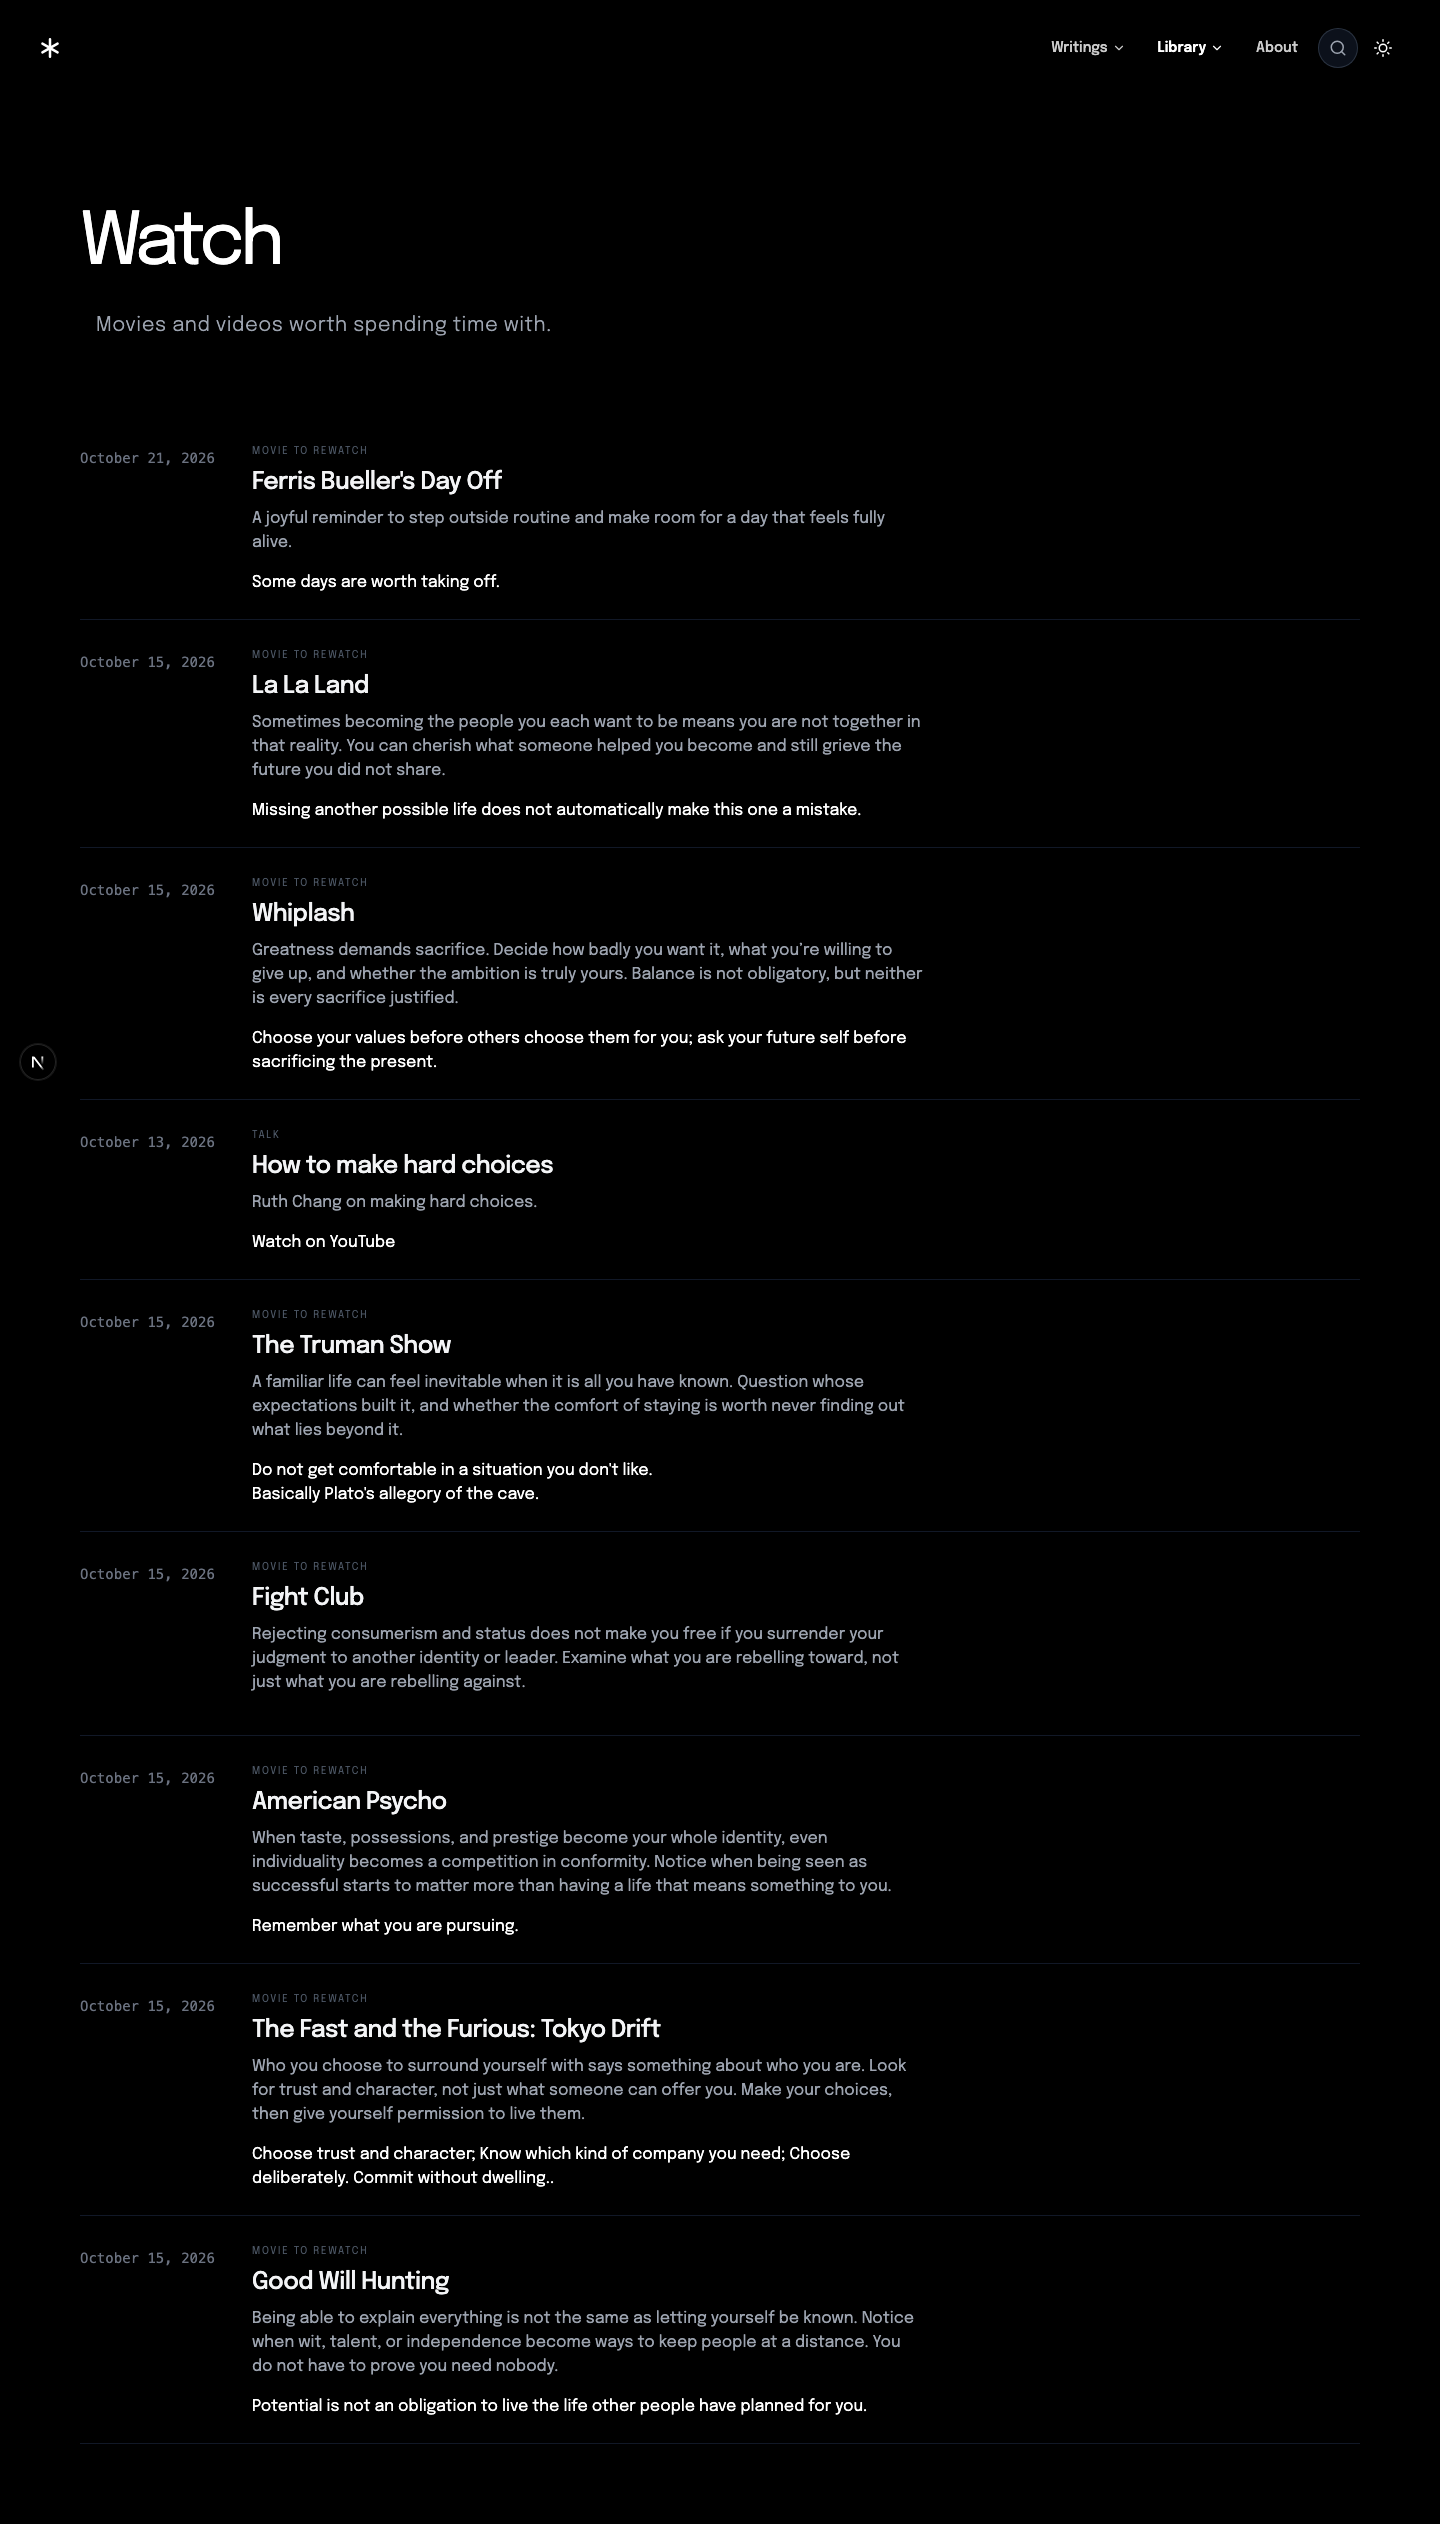
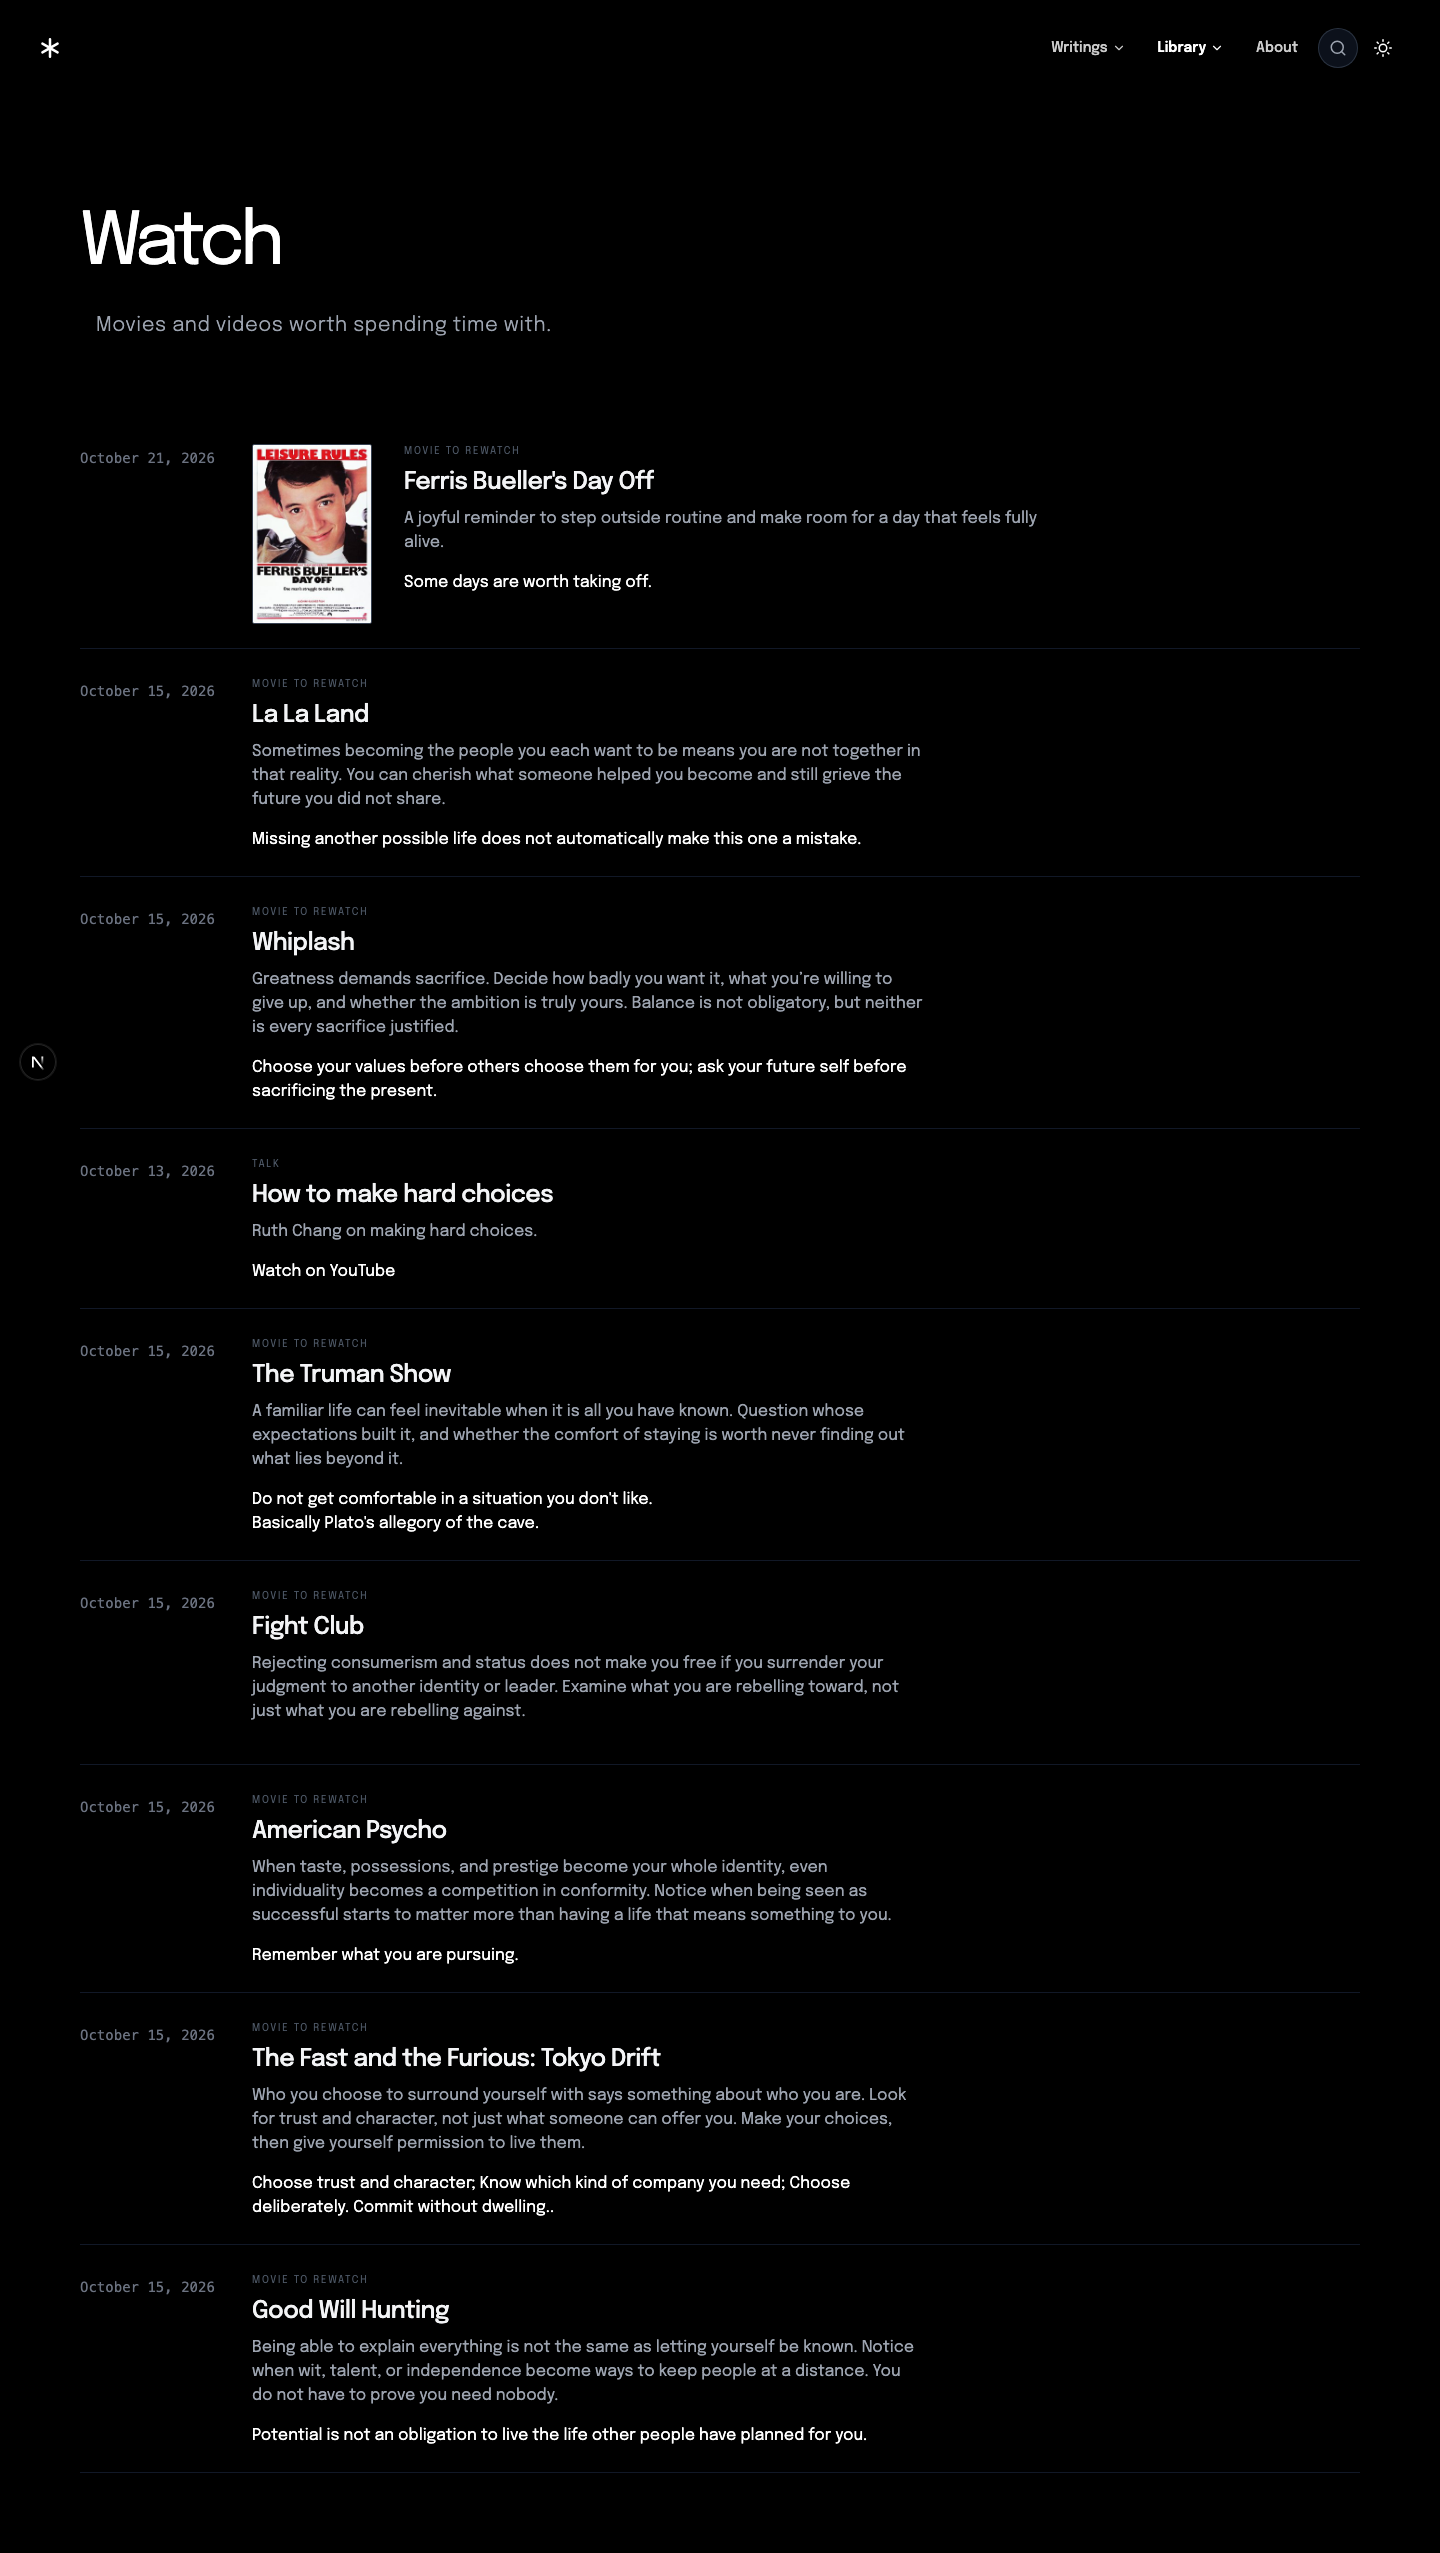
feat: add poster support to watch entries

diff --git a/src/app/watch/page.tsx b/src/app/watch/page.tsx
@@ -23,6 +23,7 @@ export default async function WatchPage() {
     date: string;
     excerpt: string;
     format?: string;
+    posterUrl?: string;
   }>).map(async (record) => ({
     ...record,
     body: await readStaticMarkdown('watch', record.id),
@@ -48,18 +49,27 @@ export default async function WatchPage() {
                       <div className="min-w-[140px] pt-1 text-sm font-mono text-gray-500 dark:text-gray-500">
                         <time dateTime={record.date}>{formatDate(record.date)}</time>
                       </div>
-                      <div className="min-w-0 flex-1">
-                        <p className="mb-2 text-[10px] uppercase tracking-[0.18em] text-gray-400 dark:text-gray-600">
-                          {record.format || 'Video'}
-                        </p>
-                        <h2 className="mb-2 text-xl font-medium tracking-tight text-gray-900 transition-colors group-hover:text-gray-600 dark:text-gray-100 dark:group-hover:text-gray-300 sm:text-2xl">
-                          {record.title}
-                        </h2>
-                        <p className="mb-4 max-w-2xl text-sm leading-relaxed text-gray-600 dark:text-gray-400 sm:text-base">
-                          {record.excerpt}
-                        </p>
-                        <div className="prose prose-sm max-w-2xl dark:prose-invert">
-                          <ReactMarkdown remarkPlugins={markdownRemarkPlugins} rehypePlugins={markdownRehypePlugins}>{record.body}</ReactMarkdown>
+                      <div className={`min-w-0 flex-1 ${record.posterUrl ? 'sm:grid sm:grid-cols-[120px_minmax(0,1fr)] sm:gap-8' : ''}`}>
+                        {record.posterUrl ? (
+                          <div className="w-24 shrink-0 sm:w-full">
+                            <div className="relative aspect-[2/3] overflow-hidden rounded-sm border border-gray-300 bg-gray-100 dark:border-gray-700 dark:bg-gray-900">
+                              <img src={record.posterUrl} alt={`Poster for ${record.title}`} className="h-full w-full object-cover" loading="eager" />
+                            </div>
+                          </div>
+                        ) : null}
+                        <div className="min-w-0">
+                          <p className="mb-2 text-[10px] uppercase tracking-[0.18em] text-gray-400 dark:text-gray-600">
+                            {record.format || 'Video'}
+                          </p>
+                          <h2 className="mb-2 text-xl font-medium tracking-tight text-gray-900 transition-colors group-hover:text-gray-600 dark:text-gray-100 dark:group-hover:text-gray-300 sm:text-2xl">
+                            {record.title}
+                          </h2>
+                          <p className="mb-4 max-w-2xl text-sm leading-relaxed text-gray-600 dark:text-gray-400 sm:text-base">
+                            {record.excerpt}
+                          </p>
+                          <div className="prose prose-sm max-w-2xl dark:prose-invert">
+                            <ReactMarkdown remarkPlugins={markdownRemarkPlugins} rehypePlugins={markdownRehypePlugins}>{record.body}</ReactMarkdown>
+                          </div>
                         </div>
                       </div>
                     </div>
